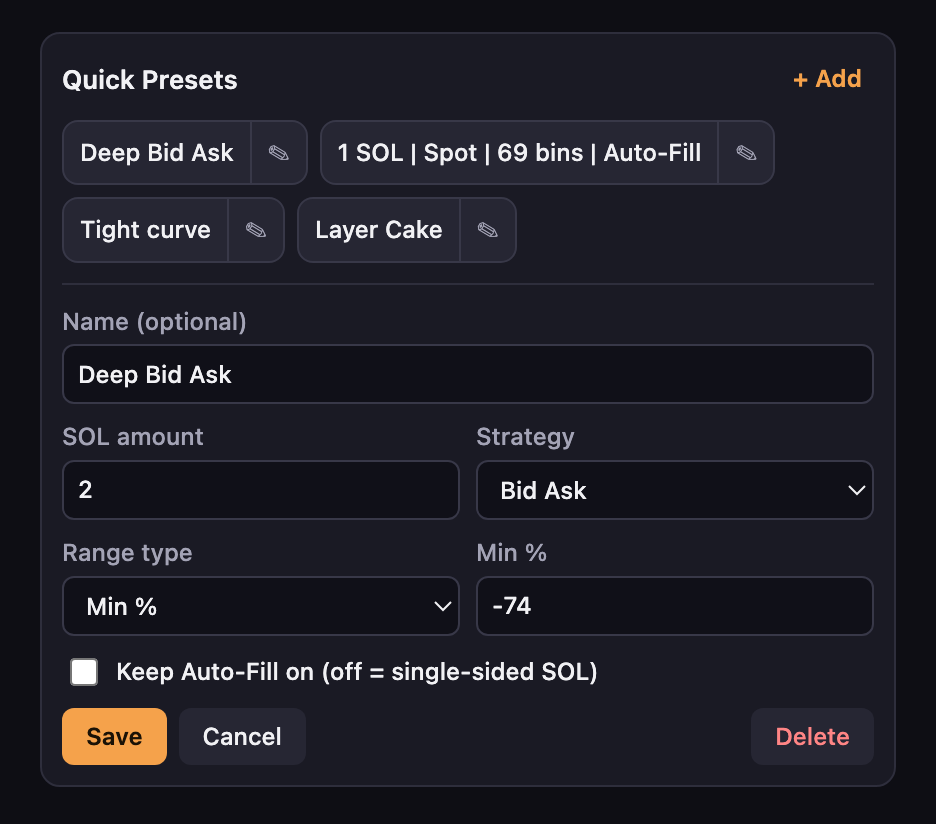
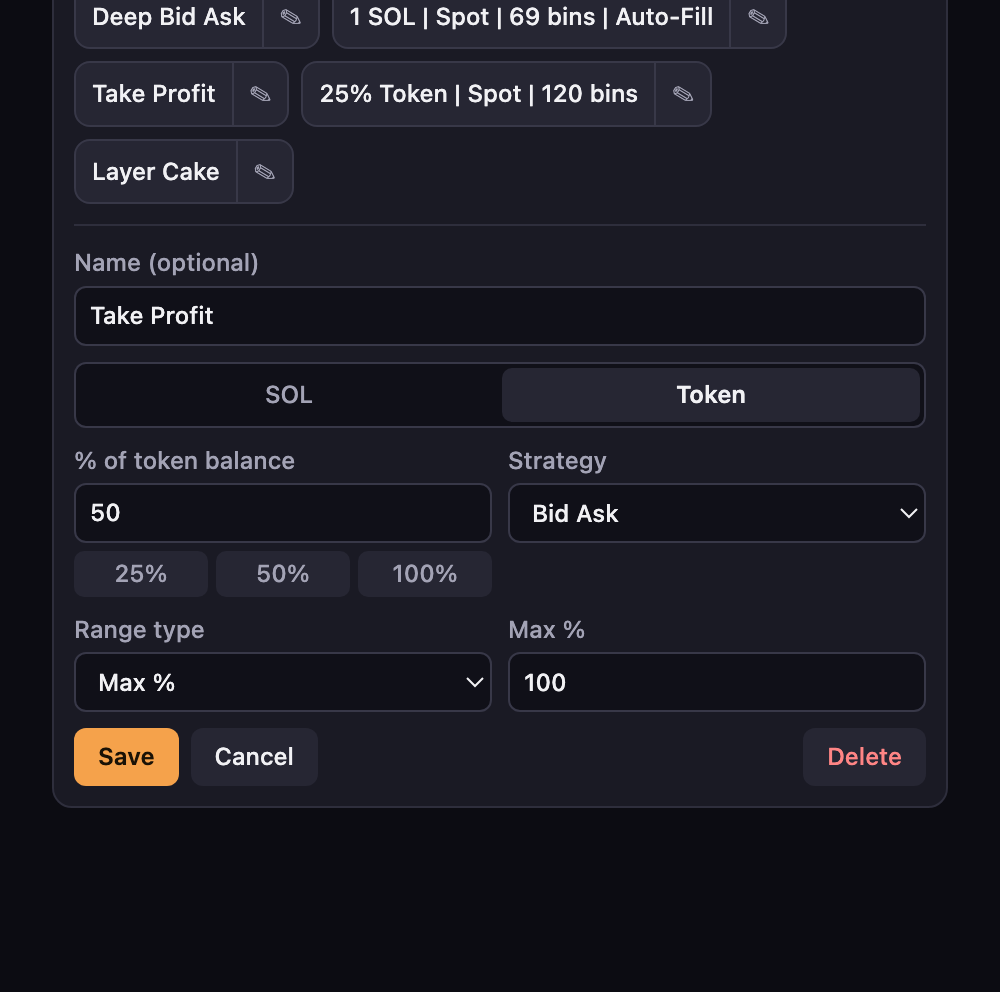
docs: show token-side presets in the README (#1)
Replace the editor screenshot and update the description for token-sided presets.

diff --git a/README.md b/README.md
@@ -4,7 +4,7 @@
 
 # Meteora Quick Presets
 
-**One-click presets for Meteora's DLMM Create Position panel.** Pick a preset and the SOL amount, strategy and price range are filled in for you. You still review and confirm every position yourself.
+**One-click presets for Meteora's DLMM Create Position panel.** Pick a preset and the amount, strategy and price range are filled in for you, on the SOL side or the token side. You still review and confirm every position yourself.
 
 [![Latest release](https://img.shields.io/github/v/release/mzogot/MeteoraQuickPresets?label=release&color=f5a24b)](https://github.com/mzogot/MeteoraQuickPresets/releases/latest)
 ![Chrome MV3](https://img.shields.io/badge/Chrome-Manifest%20V3-black?logo=googlechrome&logoColor=white)
@@ -27,14 +27,15 @@
 Opening a DLMM position means setting the same few fields every time: amount, Auto-Fill, strategy, Min price. If you use the same setups across many pools, that is a lot of repeated typing, and each pool's bin step changes how many bins a given percentage covers.
 
 - **One click per setup.** Save the positions you open most and apply them from a bar above the panel.
-- **Range by percent or by bins.** Set a Min %, or ask for a total bin count and the extension works out the Min price from the pool's bin step.
+- **SOL or token side.** Deposit a fixed SOL amount, or a percentage of your token balance, so one preset works whatever you hold.
+- **Range by percent or by bins.** Set a Min % (Max % on the token side), or ask for a total bin count and the extension works out the price from the pool's bin step.
 - **It never submits.** The extension only fills in the form. Creating the position is still your click, and your wallet still asks you to sign.
 - **No wallet access and no network access.** It has no code that talks to a wallet or a server.
 - **Free and open source** under the MIT license.
 
 ## Features
 
-<img src="docs/images/editor.png" width="620" alt="The preset editor with fields for name, SOL amount, strategy, range type, Min %, a Keep Auto-Fill on checkbox, and Save, Cancel and Delete buttons">
+<img src="docs/images/editor.png" width="620" alt="The preset editor with the Token side selected, showing fields for name, percent of token balance with 25%, 50% and 100% shortcuts, strategy, range type, Max %, and Save, Cancel and Delete buttons">
 
 Each preset stores:
 
@@ -71,6 +72,7 @@ A preset only runs when:
 
 - The pool is paired with real SOL as the second token. Tokens that are only named SOL are refused.
 - The panel shows the price as SOL/TOKEN. If it's flipped, click the price to switch it back.
+- For a token-side preset, your connected wallet holds some of that token.
 
 Before showing **Ready**, the extension reads the panel back and checks the amount, strategy, Auto-Fill and price range. If a preset stops early, the bar tells you the panel may be only partly filled.
 
